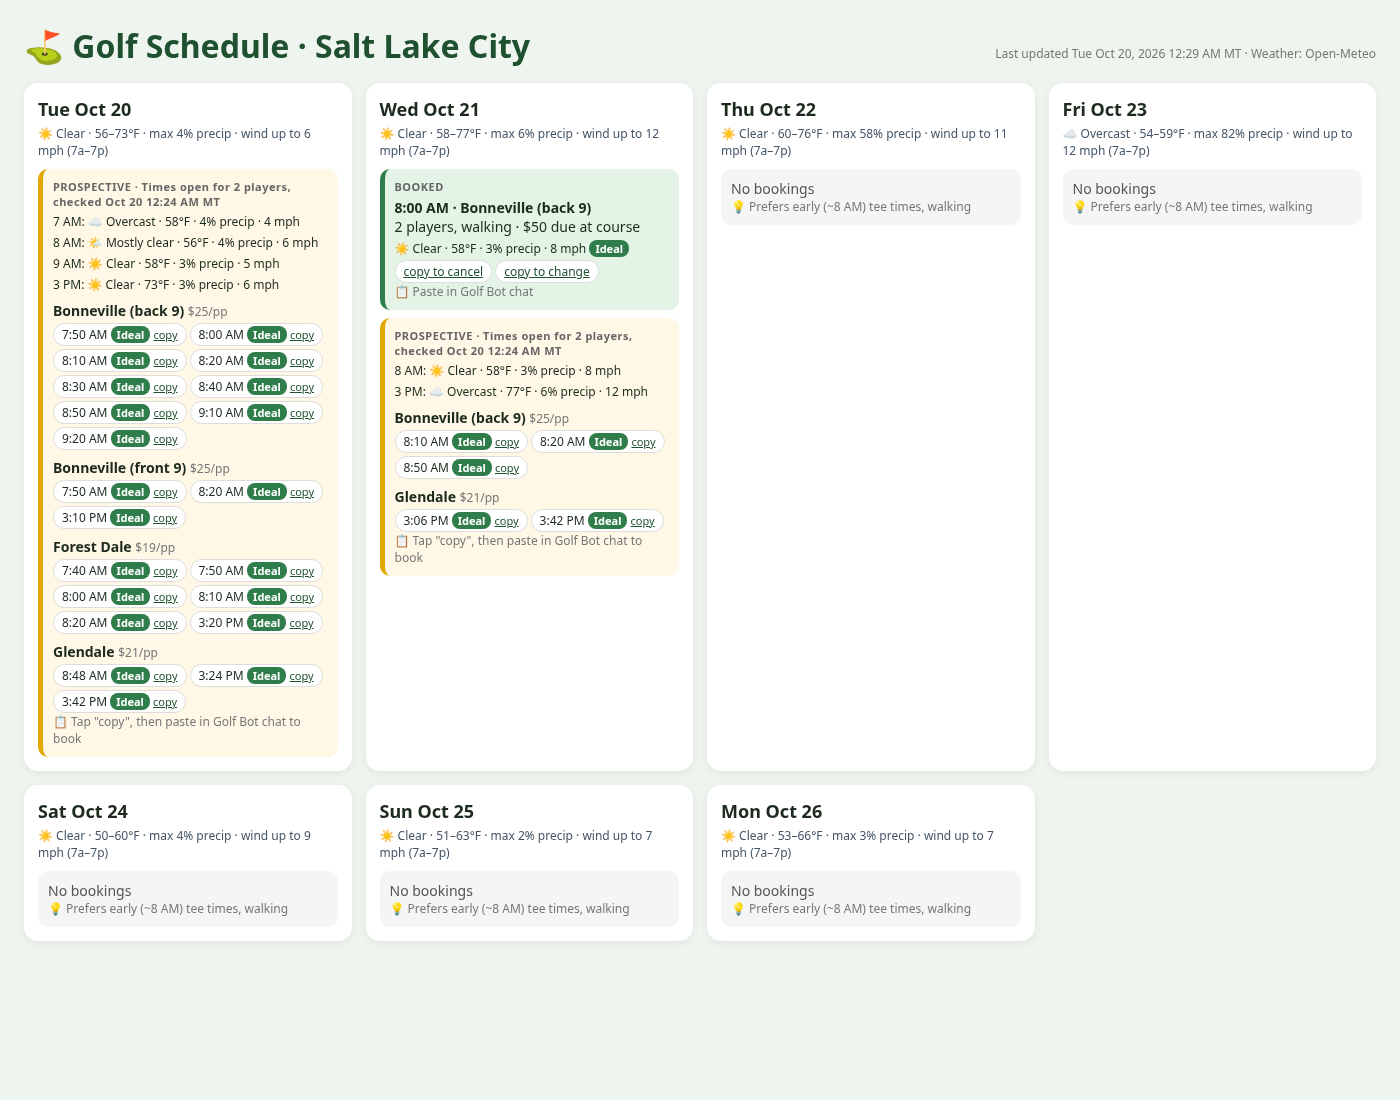
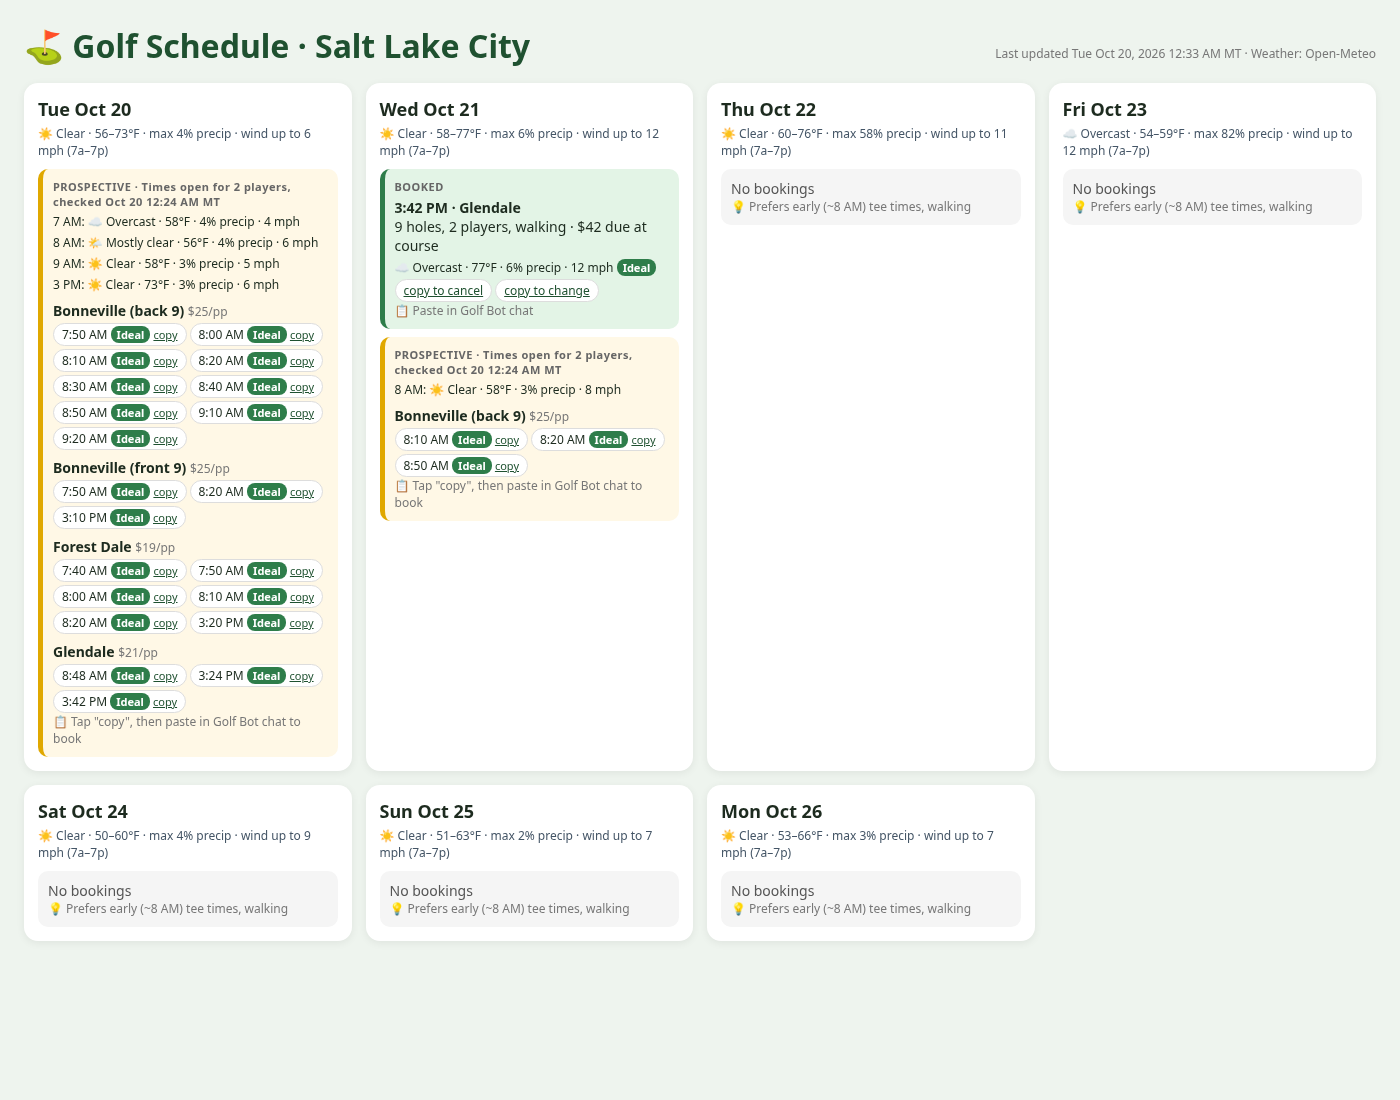
Update schedule 2026-10-20 00:33 MT

Changed region(s): [[0.2457, 0.1855, 0.4914, 0.5255]]

diff --git a/index.html b/index.html
@@ -9,5 +9,5 @@ h1{margin:0;color:#1f5130} .top{display:flex;justify-content:space-between;align
 .muted{color:#777;font-size:12px} .wx{font-size:12px;margin-top:4px} .prow{margin-top:8px}
 .copy{font-size:11px;color:#1f5130} .chip{display:inline-block;background:#fff;border:1px solid #ddd;border-radius:14px;padding:2px 8px;margin:3px 3px 0 0;font-size:12px}
 .badge{border-radius:8px;padding:1px 6px;font-size:11px;font-weight:700;color:#fff} .ideal{background:#2e7d4a} .ok{background:#d08b00} .poor{background:#c0392b} .na{background:#888}
-</style></head><body><div class="top"><h1>⛳ Golf Schedule · Salt Lake City</h1><div class="muted">Last updated Tue Oct 20, 2026 12:29 AM MT · Weather: Open-Meteo</div></div>
-<div class="grid"><section class="day"><h2>Tue Oct 20</h2><div class="sum">☀ Clear · 56–73°F · max 4% precip · wind up to 6 mph (7a–7p)</div><div class="slot prospect"><div class="tag">PROSPECTIVE · Times open for 2 players, checked Oct 20 12:24 AM MT</div><div class="wx">7 AM: ☁ Overcast · 58°F · 4% precip · 4 mph</div><div class="wx">8 AM: 🌤 Mostly clear · 56°F · 4% precip · 6 mph</div><div class="wx">9 AM: ☀ Clear · 58°F · 3% precip · 5 mph</div><div class="wx">3 PM: ☀ Clear · 73°F · 3% precip · 6 mph</div><div class="prow"><b>Bonneville (back 9)</b> <span class="muted">$25/pp</span><div><span class="chip">7:50 AM <span class="badge ideal" title="☁ Overcast · 58°F · 4% precip · 4 mph">Ideal</span> <a href="#" class="copy" data-msg="Book Bonneville (back 9) Tue Oct 20 7:50 AM" onclick="navigator.clipboard.writeText(this.dataset.msg);this.textContent='copied!';return false">copy</a></span><span class="chip">8:00 AM <span class="badge ideal" title="🌤 Mostly clear · 56°F · 4% precip · 6 mph">Ideal</span> <a href="#" class="copy" data-msg="Book Bonneville (back 9) Tue Oct 20 8:00 AM" onclick="navigator.clipboard.writeText(this.dataset.msg);this.textContent='copied!';return false">copy</a></span><span class="chip">8:10 AM <span class="badge ideal" title="🌤 Mostly clear · 56°F · 4% precip · 6 mph">Ideal</span> <a href="#" class="copy" data-msg="Book Bonneville (back 9) Tue Oct 20 8:10 AM" onclick="navigator.clipboard.writeText(this.dataset.msg);this.textContent='copied!';return false">copy</a></span><span class="chip">8:20 AM <span class="badge ideal" title="🌤 Mostly clear · 56°F · 4% precip · 6 mph">Ideal</span> <a href="#" class="copy" data-msg="Book Bonneville (back 9) Tue Oct 20 8:20 AM" onclick="navigator.clipboard.writeText(this.dataset.msg);this.textContent='copied!';return false">copy</a></span><span class="chip">8:30 AM <span class="badge ideal" title="🌤 Mostly clear · 56°F · 4% precip · 6 mph">Ideal</span> <a href="#" class="copy" data-msg="Book Bonneville (back 9) Tue Oct 20 8:30 AM" onclick="navigator.clipboard.writeText(this.dataset.msg);this.textContent='copied!';return false">copy</a></span><span class="chip">8:40 AM <span class="badge ideal" title="🌤 Mostly clear · 56°F · 4% precip · 6 mph">Ideal</span> <a href="#" class="copy" data-msg="Book Bonneville (back 9) Tue Oct 20 8:40 AM" onclick="navigator.clipboard.writeText(this.dataset.msg);this.textContent='copied!';return false">copy</a></span><span class="chip">8:50 AM <span class="badge ideal" title="🌤 Mostly clear · 56°F · 4% precip · 6 mph">Ideal</span> <a href="#" class="copy" data-msg="Book Bonneville (back 9) Tue Oct 20 8:50 AM" onclick="navigator.clipboard.writeText(this.dataset.msg);this.textContent='copied!';return false">copy</a></span><span class="chip">9:10 AM <span class="badge ideal" title="☀ Clear · 58°F · 3% precip · 5 mph">Ideal</span> <a href="#" class="copy" data-msg="Book Bonneville (back 9) Tue Oct 20 9:10 AM" onclick="navigator.clipboard.writeText(this.dataset.msg);this.textContent='copied!';return false">copy</a></span><span class="chip">9:20 AM <span class="badge ideal" title="☀ Clear · 58°F · 3% precip · 5 mph">Ideal</span> <a href="#" class="copy" data-msg="Book Bonneville (back 9) Tue Oct 20 9:20 AM" onclick="navigator.clipboard.writeText(this.dataset.msg);this.textContent='copied!';return false">copy</a></span></div></div><div class="prow"><b>Bonneville (front 9)</b> <span class="muted">$25/pp</span><div><span class="chip">7:50 AM <span class="badge ideal" title="☁ Overcast · 58°F · 4% precip · 4 mph">Ideal</span> <a href="#" class="copy" data-msg="Book Bonneville (front 9) Tue Oct 20 7:50 AM" onclick="navigator.clipboard.writeText(this.dataset.msg);this.textContent='copied!';return false">copy</a></span><span class="chip">8:20 AM <span class="badge ideal" title="🌤 Mostly clear · 56°F · 4% precip · 6 mph">Ideal</span> <a href="#" class="copy" data-msg="Book Bonneville (front 9) Tue Oct 20 8:20 AM" onclick="navigator.clipboard.writeText(this.dataset.msg);this.textContent='copied!';return false">copy</a></span><span class="chip">3:10 PM <span class="badge ideal" title="☀ Clear · 73°F · 3% precip · 6 mph">Ideal</span> <a href="#" class="copy" data-msg="Book Bonneville (front 9) Tue Oct 20 3:10 PM" onclick="navigator.clipboard.writeText(this.dataset.msg);this.textContent='copied!';return false">copy</a></span></div></div><div class="prow"><b>Forest Dale</b> <span class="muted">$19/pp</span><div><span class="chip">7:40 AM <span class="badge ideal" title="☁ Overcast · 58°F · 4% precip · 4 mph">Ideal</span> <a href="#" class="copy" data-msg="Book Forest Dale Tue Oct 20 7:40 AM" onclick="navigator.clipboard.writeText(this.dataset.msg);this.textContent='copied!';return false">copy</a></span><span class="chip">7:50 AM <span class="badge ideal" title="☁ Overcast · 58°F · 4% precip · 4 mph">Ideal</span> <a href="#" class="copy" data-msg="Book Forest Dale Tue Oct 20 7:50 AM" onclick="navigator.clipboard.writeText(this.dataset.msg);this.textContent='copied!';return false">copy</a></span><span class="chip">8:00 AM <span class="badge ideal" title="🌤 Mostly clear · 56°F · 4% precip · 6 mph">Ideal</span> <a href="#" class="copy" data-msg="Book Forest Dale Tue Oct 20 8:00 AM" onclick="navigator.clipboard.writeText(this.dataset.msg);this.textContent='copied!';return false">copy</a></span><span class="chip">8:10 AM <span class="badge ideal" title="🌤 Mostly clear · 56°F · 4% precip · 6 mph">Ideal</span> <a href="#" class="copy" data-msg="Book Forest Dale Tue Oct 20 8:10 AM" onclick="navigator.clipboard.writeText(this.dataset.msg);this.textContent='copied!';return false">copy</a></span><span class="chip">8:20 AM <span class="badge ideal" title="🌤 Mostly clear · 56°F · 4% precip · 6 mph">Ideal</span> <a href="#" class="copy" data-msg="Book Forest Dale Tue Oct 20 8:20 AM" onclick="navigator.clipboard.writeText(this.dataset.msg);this.textContent='copied!';return false">copy</a></span><span class="chip">3:20 PM <span class="badge ideal" title="☀ Clear · 73°F · 3% precip · 6 mph">Ideal</span> <a href="#" class="copy" data-msg="Book Forest Dale Tue Oct 20 3:20 PM" onclick="navigator.clipboard.writeText(this.dataset.msg);this.textContent='copied!';return false">copy</a></span></div></div><div class="prow"><b>Glendale</b> <span class="muted">$21/pp</span><div><span class="chip">8:48 AM <span class="badge ideal" title="🌤 Mostly clear · 56°F · 4% precip · 6 mph">Ideal</span> <a href="#" class="copy" data-msg="Book Glendale Tue Oct 20 8:48 AM" onclick="navigator.clipboard.writeText(this.dataset.msg);this.textContent='copied!';return false">copy</a></span><span class="chip">3:24 PM <span class="badge ideal" title="☀ Clear · 73°F · 3% precip · 6 mph">Ideal</span> <a href="#" class="copy" data-msg="Book Glendale Tue Oct 20 3:24 PM" onclick="navigator.clipboard.writeText(this.dataset.msg);this.textContent='copied!';return false">copy</a></span><span class="chip">3:42 PM <span class="badge ideal" title="☀ Clear · 73°F · 3% precip · 6 mph">Ideal</span> <a href="#" class="copy" data-msg="Book Glendale Tue Oct 20 3:42 PM" onclick="navigator.clipboard.writeText(this.dataset.msg);this.textContent='copied!';return false">copy</a></span></div></div><div class="muted">📋 Tap "copy", then paste in Golf Bot chat to book</div></div></section><section class="day"><h2>Wed Oct 21</h2><div class="sum">☀ Clear · 58–77°F · max 6% precip · wind up to 12 mph (7a–7p)</div><div class="slot booked"><div class="tag">BOOKED</div><b>8:00 AM · Bonneville (back 9)</b><div>2 players, walking · $50 due at course</div><div class="wx">☀ Clear · 58°F · 3% precip · 8 mph <span class="badge ideal">Ideal</span></div><a href="#" class="copy chip" data-msg="Cancel my Bonneville (back 9) tee time Wed Oct 21 8:00 AM" onclick="navigator.clipboard.writeText(this.dataset.msg);this.textContent='copied!';return false">copy to cancel</a><a href="#" class="copy chip" data-msg="Change my Bonneville (back 9) tee time Wed Oct 21 8:00 AM" onclick="navigator.clipboard.writeText(this.dataset.msg);this.textContent='copied!';return false">copy to change</a><div class="muted">📋 Paste in Golf Bot chat</div></div><div class="slot prospect"><div class="tag">PROSPECTIVE · Times open for 2 players, checked Oct 20 12:24 AM MT</div><div class="wx">8 AM: ☀ Clear · 58°F · 3% precip · 8 mph</div><div class="wx">3 PM: ☁ Overcast · 77°F · 6% precip · 12 mph</div><div class="prow"><b>Bonneville (back 9)</b> <span class="muted">$25/pp</span><div><span class="chip">8:10 AM <span class="badge ideal" title="☀ Clear · 58°F · 3% precip · 8 mph">Ideal</span> <a href="#" class="copy" data-msg="Book Bonneville (back 9) Wed Oct 21 8:10 AM" onclick="navigator.clipboard.writeText(this.dataset.msg);this.textContent='copied!';return false">copy</a></span><span class="chip">8:20 AM <span class="badge ideal" title="☀ Clear · 58°F · 3% precip · 8 mph">Ideal</span> <a href="#" class="copy" data-msg="Book Bonneville (back 9) Wed Oct 21 8:20 AM" onclick="navigator.clipboard.writeText(this.dataset.msg);this.textContent='copied!';return false">copy</a></span><span class="chip">8:50 AM <span class="badge ideal" title="☀ Clear · 58°F · 3% precip · 8 mph">Ideal</span> <a href="#" class="copy" data-msg="Book Bonneville (back 9) Wed Oct 21 8:50 AM" onclick="navigator.clipboard.writeText(this.dataset.msg);this.textContent='copied!';return false">copy</a></span></div></div><div class="prow"><b>Glendale</b> <span class="muted">$21/pp</span><div><span class="chip">3:06 PM <span class="badge ideal" title="☁ Overcast · 77°F · 6% precip · 12 mph">Ideal</span> <a href="#" class="copy" data-msg="Book Glendale Wed Oct 21 3:06 PM" onclick="navigator.clipboard.writeText(this.dataset.msg);this.textContent='copied!';return false">copy</a></span><span class="chip">3:42 PM <span class="badge ideal" title="☁ Overcast · 77°F · 6% precip · 12 mph">Ideal</span> <a href="#" class="copy" data-msg="Book Glendale Wed Oct 21 3:42 PM" onclick="navigator.clipboard.writeText(this.dataset.msg);this.textContent='copied!';return false">copy</a></span></div></div><div class="muted">📋 Tap "copy", then paste in Golf Bot chat to book</div></div></section><section class="day"><h2>Thu Oct 22</h2><div class="sum">☀ Clear · 60–76°F · max 58% precip · wind up to 11 mph (7a–7p)</div><div class="slot empty">No bookings<div class="muted">💡 Prefers early (~8 AM) tee times, walking</div></div></section><section class="day"><h2>Fri Oct 23</h2><div class="sum">☁ Overcast · 54–59°F · max 82% precip · wind up to 12 mph (7a–7p)</div><div class="slot empty">No bookings<div class="muted">💡 Prefers early (~8 AM) tee times, walking</div></div></section><section class="day"><h2>Sat Oct 24</h2><div class="sum">☀ Clear · 50–60°F · max 4% precip · wind up to 9 mph (7a–7p)</div><div class="slot empty">No bookings<div class="muted">💡 Prefers early (~8 AM) tee times, walking</div></div></section><section class="day"><h2>Sun Oct 25</h2><div class="sum">☀ Clear · 51–63°F · max 2% precip · wind up to 7 mph (7a–7p)</div><div class="slot empty">No bookings<div class="muted">💡 Prefers early (~8 AM) tee times, walking</div></div></section><section class="day"><h2>Mon Oct 26</h2><div class="sum">☀ Clear · 53–66°F · max 3% precip · wind up to 7 mph (7a–7p)</div><div class="slot empty">No bookings<div class="muted">💡 Prefers early (~8 AM) tee times, walking</div></div></section></div></body></html>
+</style></head><body><div class="top"><h1>⛳ Golf Schedule · Salt Lake City</h1><div class="muted">Last updated Tue Oct 20, 2026 12:33 AM MT · Weather: Open-Meteo</div></div>
+<div class="grid"><section class="day"><h2>Tue Oct 20</h2><div class="sum">☀ Clear · 56–73°F · max 4% precip · wind up to 6 mph (7a–7p)</div><div class="slot prospect"><div class="tag">PROSPECTIVE · Times open for 2 players, checked Oct 20 12:24 AM MT</div><div class="wx">7 AM: ☁ Overcast · 58°F · 4% precip · 4 mph</div><div class="wx">8 AM: 🌤 Mostly clear · 56°F · 4% precip · 6 mph</div><div class="wx">9 AM: ☀ Clear · 58°F · 3% precip · 5 mph</div><div class="wx">3 PM: ☀ Clear · 73°F · 3% precip · 6 mph</div><div class="prow"><b>Bonneville (back 9)</b> <span class="muted">$25/pp</span><div><span class="chip">7:50 AM <span class="badge ideal" title="☁ Overcast · 58°F · 4% precip · 4 mph">Ideal</span> <a href="#" class="copy" data-msg="Book Bonneville (back 9) Tue Oct 20 7:50 AM" onclick="navigator.clipboard.writeText(this.dataset.msg);this.textContent='copied!';return false">copy</a></span><span class="chip">8:00 AM <span class="badge ideal" title="🌤 Mostly clear · 56°F · 4% precip · 6 mph">Ideal</span> <a href="#" class="copy" data-msg="Book Bonneville (back 9) Tue Oct 20 8:00 AM" onclick="navigator.clipboard.writeText(this.dataset.msg);this.textContent='copied!';return false">copy</a></span><span class="chip">8:10 AM <span class="badge ideal" title="🌤 Mostly clear · 56°F · 4% precip · 6 mph">Ideal</span> <a href="#" class="copy" data-msg="Book Bonneville (back 9) Tue Oct 20 8:10 AM" onclick="navigator.clipboard.writeText(this.dataset.msg);this.textContent='copied!';return false">copy</a></span><span class="chip">8:20 AM <span class="badge ideal" title="🌤 Mostly clear · 56°F · 4% precip · 6 mph">Ideal</span> <a href="#" class="copy" data-msg="Book Bonneville (back 9) Tue Oct 20 8:20 AM" onclick="navigator.clipboard.writeText(this.dataset.msg);this.textContent='copied!';return false">copy</a></span><span class="chip">8:30 AM <span class="badge ideal" title="🌤 Mostly clear · 56°F · 4% precip · 6 mph">Ideal</span> <a href="#" class="copy" data-msg="Book Bonneville (back 9) Tue Oct 20 8:30 AM" onclick="navigator.clipboard.writeText(this.dataset.msg);this.textContent='copied!';return false">copy</a></span><span class="chip">8:40 AM <span class="badge ideal" title="🌤 Mostly clear · 56°F · 4% precip · 6 mph">Ideal</span> <a href="#" class="copy" data-msg="Book Bonneville (back 9) Tue Oct 20 8:40 AM" onclick="navigator.clipboard.writeText(this.dataset.msg);this.textContent='copied!';return false">copy</a></span><span class="chip">8:50 AM <span class="badge ideal" title="🌤 Mostly clear · 56°F · 4% precip · 6 mph">Ideal</span> <a href="#" class="copy" data-msg="Book Bonneville (back 9) Tue Oct 20 8:50 AM" onclick="navigator.clipboard.writeText(this.dataset.msg);this.textContent='copied!';return false">copy</a></span><span class="chip">9:10 AM <span class="badge ideal" title="☀ Clear · 58°F · 3% precip · 5 mph">Ideal</span> <a href="#" class="copy" data-msg="Book Bonneville (back 9) Tue Oct 20 9:10 AM" onclick="navigator.clipboard.writeText(this.dataset.msg);this.textContent='copied!';return false">copy</a></span><span class="chip">9:20 AM <span class="badge ideal" title="☀ Clear · 58°F · 3% precip · 5 mph">Ideal</span> <a href="#" class="copy" data-msg="Book Bonneville (back 9) Tue Oct 20 9:20 AM" onclick="navigator.clipboard.writeText(this.dataset.msg);this.textContent='copied!';return false">copy</a></span></div></div><div class="prow"><b>Bonneville (front 9)</b> <span class="muted">$25/pp</span><div><span class="chip">7:50 AM <span class="badge ideal" title="☁ Overcast · 58°F · 4% precip · 4 mph">Ideal</span> <a href="#" class="copy" data-msg="Book Bonneville (front 9) Tue Oct 20 7:50 AM" onclick="navigator.clipboard.writeText(this.dataset.msg);this.textContent='copied!';return false">copy</a></span><span class="chip">8:20 AM <span class="badge ideal" title="🌤 Mostly clear · 56°F · 4% precip · 6 mph">Ideal</span> <a href="#" class="copy" data-msg="Book Bonneville (front 9) Tue Oct 20 8:20 AM" onclick="navigator.clipboard.writeText(this.dataset.msg);this.textContent='copied!';return false">copy</a></span><span class="chip">3:10 PM <span class="badge ideal" title="☀ Clear · 73°F · 3% precip · 6 mph">Ideal</span> <a href="#" class="copy" data-msg="Book Bonneville (front 9) Tue Oct 20 3:10 PM" onclick="navigator.clipboard.writeText(this.dataset.msg);this.textContent='copied!';return false">copy</a></span></div></div><div class="prow"><b>Forest Dale</b> <span class="muted">$19/pp</span><div><span class="chip">7:40 AM <span class="badge ideal" title="☁ Overcast · 58°F · 4% precip · 4 mph">Ideal</span> <a href="#" class="copy" data-msg="Book Forest Dale Tue Oct 20 7:40 AM" onclick="navigator.clipboard.writeText(this.dataset.msg);this.textContent='copied!';return false">copy</a></span><span class="chip">7:50 AM <span class="badge ideal" title="☁ Overcast · 58°F · 4% precip · 4 mph">Ideal</span> <a href="#" class="copy" data-msg="Book Forest Dale Tue Oct 20 7:50 AM" onclick="navigator.clipboard.writeText(this.dataset.msg);this.textContent='copied!';return false">copy</a></span><span class="chip">8:00 AM <span class="badge ideal" title="🌤 Mostly clear · 56°F · 4% precip · 6 mph">Ideal</span> <a href="#" class="copy" data-msg="Book Forest Dale Tue Oct 20 8:00 AM" onclick="navigator.clipboard.writeText(this.dataset.msg);this.textContent='copied!';return false">copy</a></span><span class="chip">8:10 AM <span class="badge ideal" title="🌤 Mostly clear · 56°F · 4% precip · 6 mph">Ideal</span> <a href="#" class="copy" data-msg="Book Forest Dale Tue Oct 20 8:10 AM" onclick="navigator.clipboard.writeText(this.dataset.msg);this.textContent='copied!';return false">copy</a></span><span class="chip">8:20 AM <span class="badge ideal" title="🌤 Mostly clear · 56°F · 4% precip · 6 mph">Ideal</span> <a href="#" class="copy" data-msg="Book Forest Dale Tue Oct 20 8:20 AM" onclick="navigator.clipboard.writeText(this.dataset.msg);this.textContent='copied!';return false">copy</a></span><span class="chip">3:20 PM <span class="badge ideal" title="☀ Clear · 73°F · 3% precip · 6 mph">Ideal</span> <a href="#" class="copy" data-msg="Book Forest Dale Tue Oct 20 3:20 PM" onclick="navigator.clipboard.writeText(this.dataset.msg);this.textContent='copied!';return false">copy</a></span></div></div><div class="prow"><b>Glendale</b> <span class="muted">$21/pp</span><div><span class="chip">8:48 AM <span class="badge ideal" title="🌤 Mostly clear · 56°F · 4% precip · 6 mph">Ideal</span> <a href="#" class="copy" data-msg="Book Glendale Tue Oct 20 8:48 AM" onclick="navigator.clipboard.writeText(this.dataset.msg);this.textContent='copied!';return false">copy</a></span><span class="chip">3:24 PM <span class="badge ideal" title="☀ Clear · 73°F · 3% precip · 6 mph">Ideal</span> <a href="#" class="copy" data-msg="Book Glendale Tue Oct 20 3:24 PM" onclick="navigator.clipboard.writeText(this.dataset.msg);this.textContent='copied!';return false">copy</a></span><span class="chip">3:42 PM <span class="badge ideal" title="☀ Clear · 73°F · 3% precip · 6 mph">Ideal</span> <a href="#" class="copy" data-msg="Book Glendale Tue Oct 20 3:42 PM" onclick="navigator.clipboard.writeText(this.dataset.msg);this.textContent='copied!';return false">copy</a></span></div></div><div class="muted">📋 Tap "copy", then paste in Golf Bot chat to book</div></div></section><section class="day"><h2>Wed Oct 21</h2><div class="sum">☀ Clear · 58–77°F · max 6% precip · wind up to 12 mph (7a–7p)</div><div class="slot booked"><div class="tag">BOOKED</div><b>3:42 PM · Glendale</b><div>9 holes, 2 players, walking · $42 due at course</div><div class="wx">☁ Overcast · 77°F · 6% precip · 12 mph <span class="badge ideal">Ideal</span></div><a href="#" class="copy chip" data-msg="Cancel my Glendale tee time Wed Oct 21 3:42 PM" onclick="navigator.clipboard.writeText(this.dataset.msg);this.textContent='copied!';return false">copy to cancel</a><a href="#" class="copy chip" data-msg="Change my Glendale tee time Wed Oct 21 3:42 PM" onclick="navigator.clipboard.writeText(this.dataset.msg);this.textContent='copied!';return false">copy to change</a><div class="muted">📋 Paste in Golf Bot chat</div></div><div class="slot prospect"><div class="tag">PROSPECTIVE · Times open for 2 players, checked Oct 20 12:24 AM MT</div><div class="wx">8 AM: ☀ Clear · 58°F · 3% precip · 8 mph</div><div class="prow"><b>Bonneville (back 9)</b> <span class="muted">$25/pp</span><div><span class="chip">8:10 AM <span class="badge ideal" title="☀ Clear · 58°F · 3% precip · 8 mph">Ideal</span> <a href="#" class="copy" data-msg="Book Bonneville (back 9) Wed Oct 21 8:10 AM" onclick="navigator.clipboard.writeText(this.dataset.msg);this.textContent='copied!';return false">copy</a></span><span class="chip">8:20 AM <span class="badge ideal" title="☀ Clear · 58°F · 3% precip · 8 mph">Ideal</span> <a href="#" class="copy" data-msg="Book Bonneville (back 9) Wed Oct 21 8:20 AM" onclick="navigator.clipboard.writeText(this.dataset.msg);this.textContent='copied!';return false">copy</a></span><span class="chip">8:50 AM <span class="badge ideal" title="☀ Clear · 58°F · 3% precip · 8 mph">Ideal</span> <a href="#" class="copy" data-msg="Book Bonneville (back 9) Wed Oct 21 8:50 AM" onclick="navigator.clipboard.writeText(this.dataset.msg);this.textContent='copied!';return false">copy</a></span></div></div><div class="muted">📋 Tap "copy", then paste in Golf Bot chat to book</div></div></section><section class="day"><h2>Thu Oct 22</h2><div class="sum">☀ Clear · 60–76°F · max 58% precip · wind up to 11 mph (7a–7p)</div><div class="slot empty">No bookings<div class="muted">💡 Prefers early (~8 AM) tee times, walking</div></div></section><section class="day"><h2>Fri Oct 23</h2><div class="sum">☁ Overcast · 54–59°F · max 82% precip · wind up to 12 mph (7a–7p)</div><div class="slot empty">No bookings<div class="muted">💡 Prefers early (~8 AM) tee times, walking</div></div></section><section class="day"><h2>Sat Oct 24</h2><div class="sum">☀ Clear · 50–60°F · max 4% precip · wind up to 9 mph (7a–7p)</div><div class="slot empty">No bookings<div class="muted">💡 Prefers early (~8 AM) tee times, walking</div></div></section><section class="day"><h2>Sun Oct 25</h2><div class="sum">☀ Clear · 51–63°F · max 2% precip · wind up to 7 mph (7a–7p)</div><div class="slot empty">No bookings<div class="muted">💡 Prefers early (~8 AM) tee times, walking</div></div></section><section class="day"><h2>Mon Oct 26</h2><div class="sum">☀ Clear · 53–66°F · max 3% precip · wind up to 7 mph (7a–7p)</div><div class="slot empty">No bookings<div class="muted">💡 Prefers early (~8 AM) tee times, walking</div></div></section></div></body></html>
